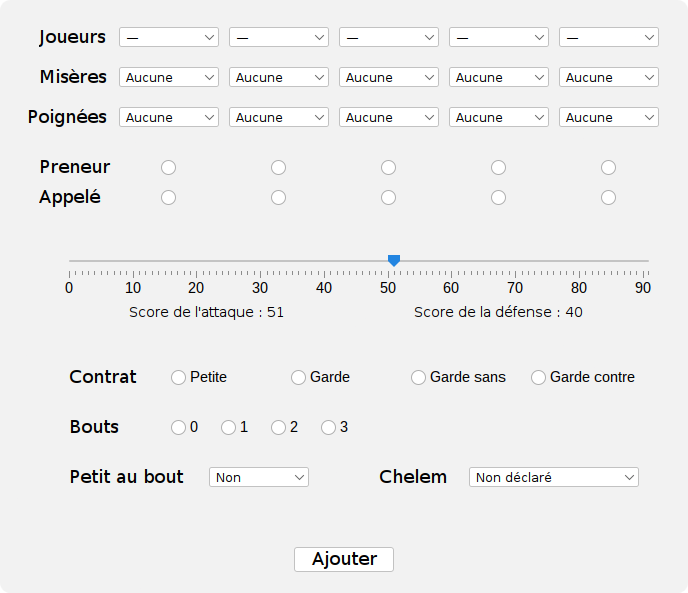
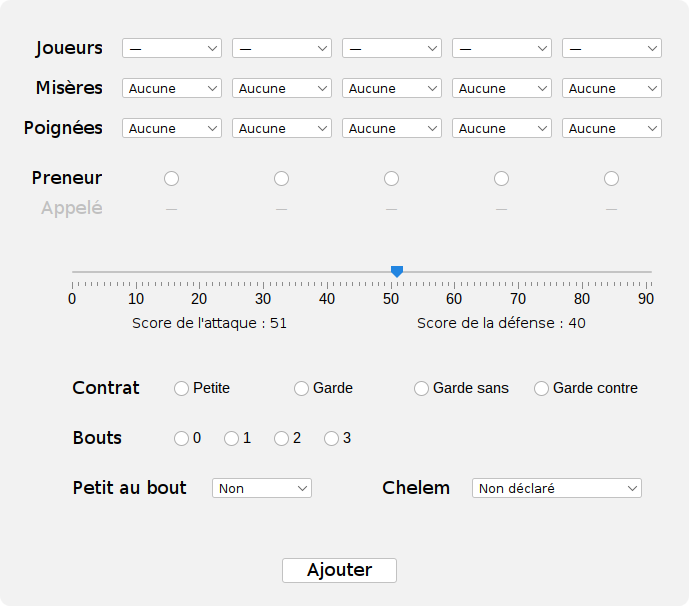
Improve new game interface alignment

diff --git a/src/main/java/fr/giovanni75/tarot/frames/FrameNewGame.java b/src/main/java/fr/giovanni75/tarot/frames/FrameNewGame.java
@@ -114,9 +114,9 @@ class FrameNewGame extends TarotFrame implements ActionListener {
 		nameList.sort(String::compareTo);
 		nameList.addFirst(Tarot.NONE_STRING);
 
-		mainPanel.add(Components.getSimpleText("Joueurs", 18, COMBO_BOX_BASE_X - 80, COMBO_BOX_BASE_Y - 20, LARGE_TEXT_WIDTH, TEXT_HEIGHT));
-		mainPanel.add(Components.getSimpleText("Misères", 18, COMBO_BOX_BASE_X - 80, COMBO_BOX_BASE_Y + 20, LARGE_TEXT_WIDTH, TEXT_HEIGHT));
-		mainPanel.add(Components.getSimpleText("Poignées", 18, COMBO_BOX_BASE_X - 92, COMBO_BOX_BASE_Y + 60, LARGE_TEXT_WIDTH, TEXT_HEIGHT));
+		mainPanel.add(Components.getSimpleText("Joueurs", 18, SwingConstants.RIGHT, COMBO_BOX_BASE_X - 120, COMBO_BOX_BASE_Y - 20, SMALL_TEXT_WIDTH, TEXT_HEIGHT));
+		mainPanel.add(Components.getSimpleText("Misères", 18, SwingConstants.RIGHT, COMBO_BOX_BASE_X - 120, COMBO_BOX_BASE_Y + 20, SMALL_TEXT_WIDTH, TEXT_HEIGHT));
+		mainPanel.add(Components.getSimpleText("Poignées", 18, SwingConstants.RIGHT, COMBO_BOX_BASE_X - 120, COMBO_BOX_BASE_Y + 60, SMALL_TEXT_WIDTH, TEXT_HEIGHT));
 
 		String[] names = nameList.toArray(new String[0]);
 		for (int i = 0; i < 5; i++) {
@@ -135,7 +135,7 @@ class FrameNewGame extends TarotFrame implements ActionListener {
 		final ButtonGroup contractButtonGroup = new ButtonGroup();
 		final ButtonGroup oudlersButtonGroup = new ButtonGroup();
 
-		mainPanel.add(Components.getSimpleText("Preneur", 18, COMBO_BOX_BASE_X - 80, COMBO_BOX_BASE_Y + 110, SMALL_TEXT_WIDTH, TEXT_HEIGHT));
+		mainPanel.add(Components.getSimpleText("Preneur", 18, SwingConstants.RIGHT, COMBO_BOX_BASE_X - 120, COMBO_BOX_BASE_Y + 110, SMALL_TEXT_WIDTH, TEXT_HEIGHT));
 		for (int i = 0; i < 5; i++) {
 			JRadioButton button = new JRadioButton();
 			attackerButtons[i] = button;
@@ -145,7 +145,7 @@ class FrameNewGame extends TarotFrame implements ActionListener {
 			mainPanel.add(button);
 		}
 
-		calledLabel = Components.getSimpleText("Appelé", 18, COMBO_BOX_BASE_X - 80, COMBO_BOX_BASE_Y + 140, SMALL_TEXT_WIDTH, TEXT_HEIGHT);
+		calledLabel = Components.getSimpleText("Appelé", 18, SwingConstants.RIGHT, COMBO_BOX_BASE_X - 120, COMBO_BOX_BASE_Y + 140, SMALL_TEXT_WIDTH, TEXT_HEIGHT);
 		mainPanel.add(calledLabel);
 
 		boolean hideCalledButtons = (baseGame == null || baseGame.players.length < 5) && exists(LAST_SELECTED_NAMES, Tarot.NONE_STRING::equals);

diff --git a/src/main/java/fr/giovanni75/tarot/frames/Components.java b/src/main/java/fr/giovanni75/tarot/frames/Components.java
@@ -50,7 +50,12 @@ final class Components {
 	}
 
 	static JLabel getSimpleText(String text, int size, int x, int y, int width, int height) {
+		return getSimpleText(text, size, SwingConstants.LEFT, x, y, width, height);
+	}
+
+	static JLabel getSimpleText(String text, int size, int alignment, int x, int y, int width, int height) {
 		JLabel label = getSimpleText(text, size);
+		label.setHorizontalAlignment(alignment);
 		label.setLocation(x, y);
 		label.setSize(width, height);
 		return label;
